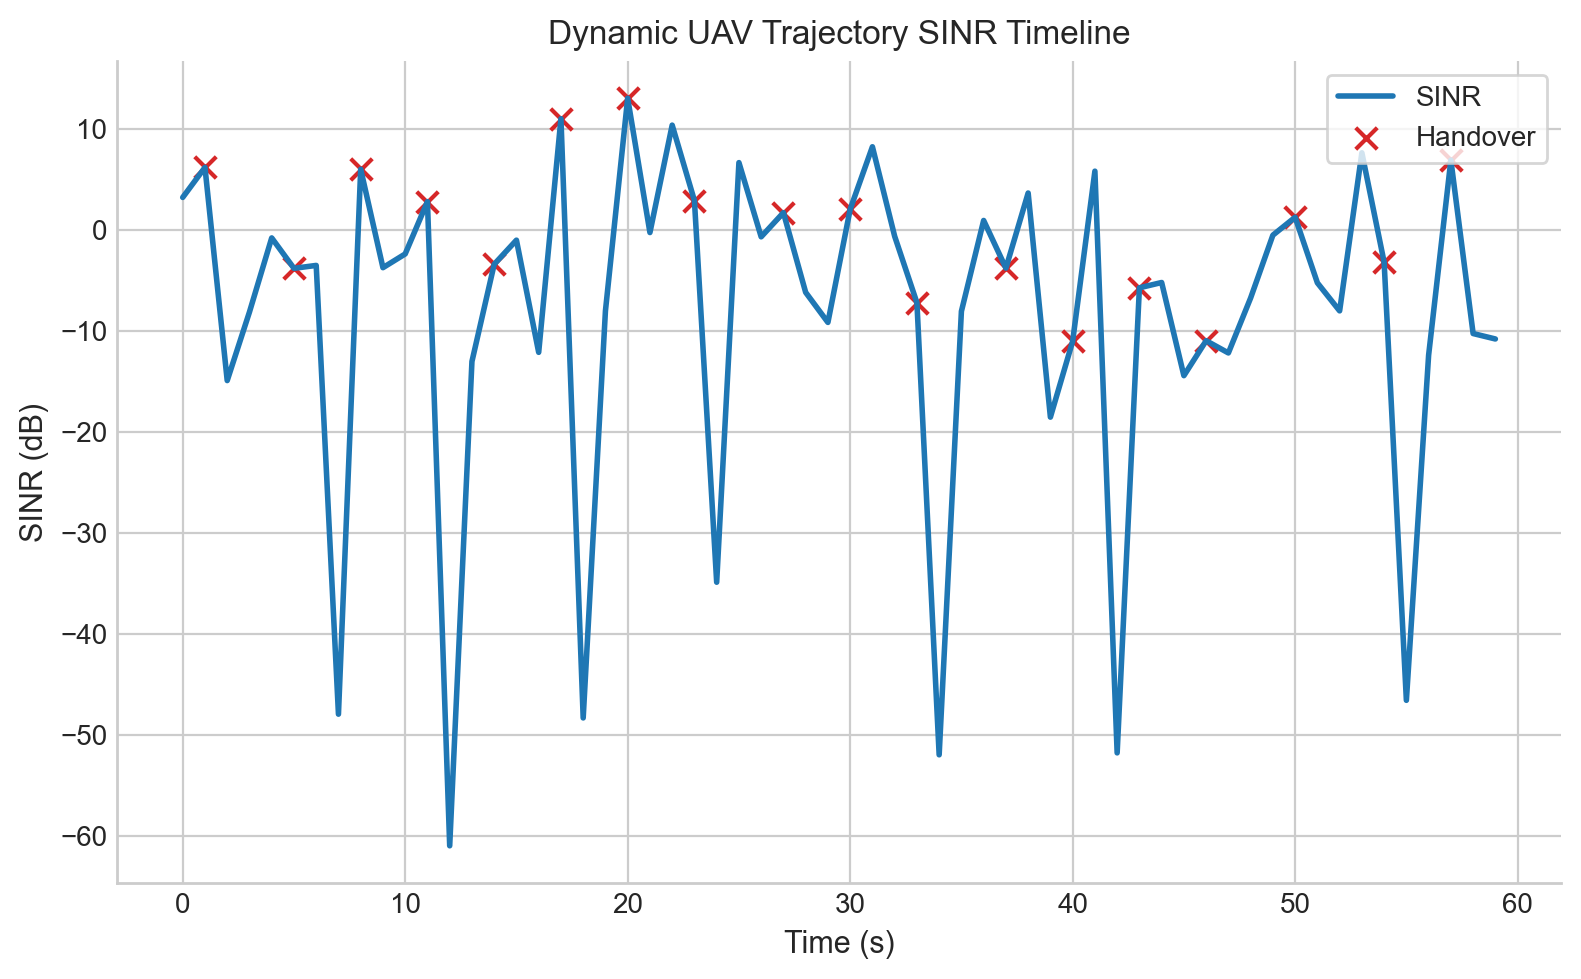
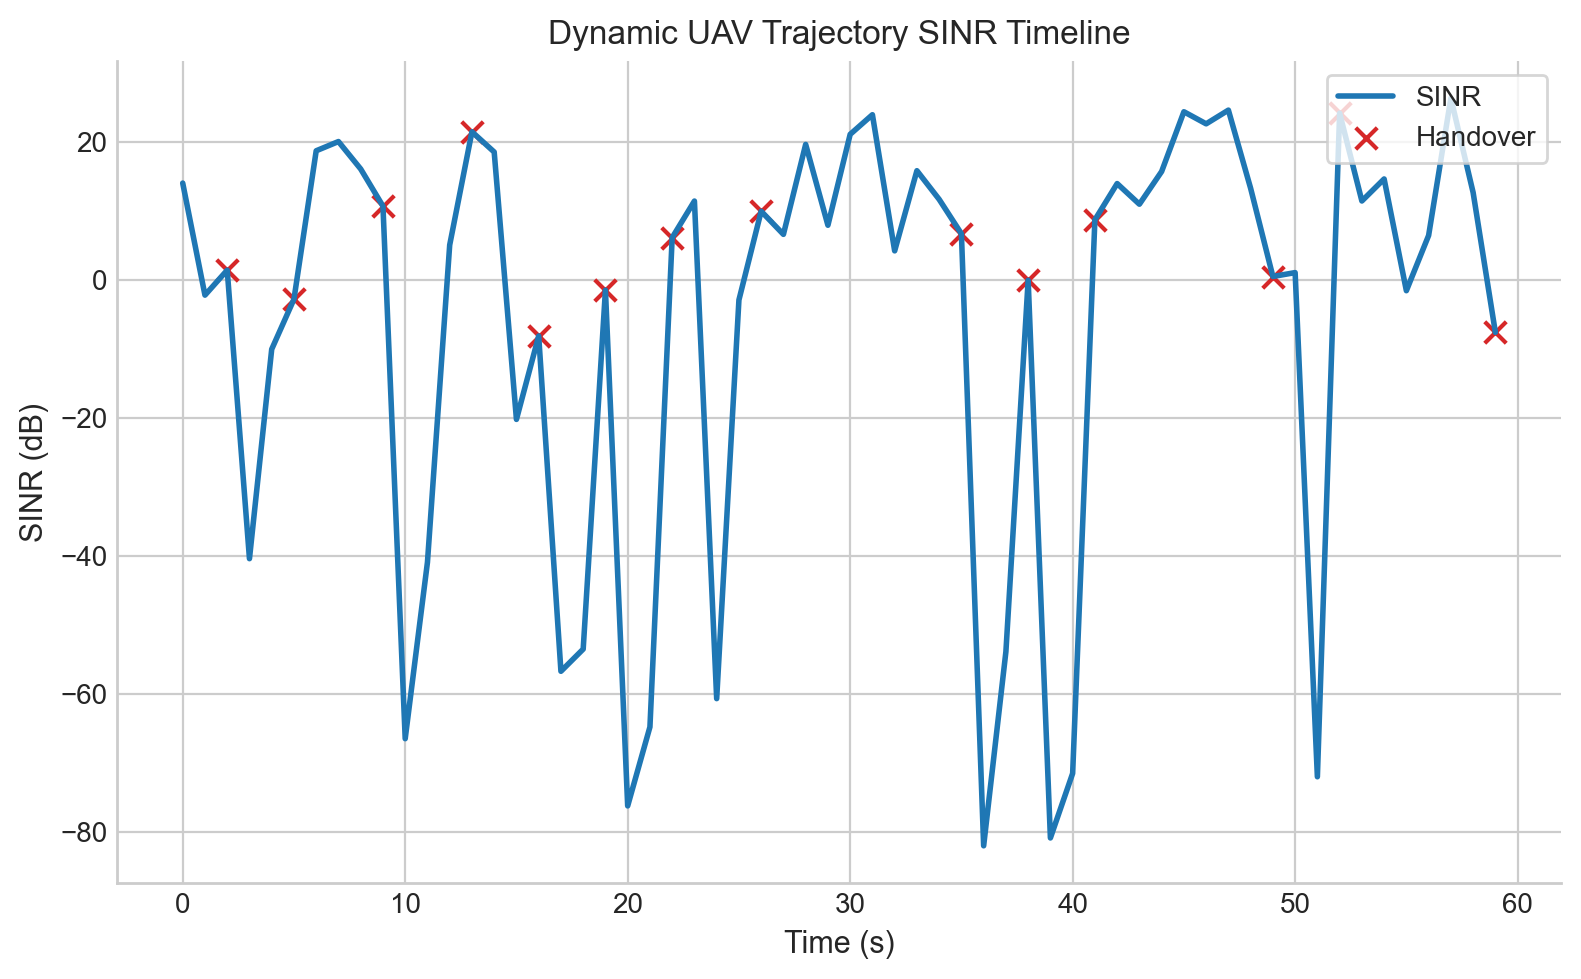
Integrate public real site layout and rerun dynamic experiment

diff --git a/cellular_uav_sir/config.py b/cellular_uav_sir/config.py
@@ -45,7 +45,7 @@ class SimulationConfig:
     itu_gamma_m: float = 15.0
     site_layout_csv: Path | None = None
     dynamic_site_layout_csv: Path = field(
-        default_factory=lambda: Path(__file__).resolve().parent / "data" / "demo_site_layout.csv"
+        default_factory=lambda: Path(__file__).resolve().parent / "data" / "real_site_layout_knoxville_tn.csv"
     )
     ground_interferer_count: int = 18
     aerial_interferer_count: int = 42

diff --git a/cellular_uav_sir/data/real_site_layout_knoxville_tn_source.md b/cellular_uav_sir/data/real_site_layout_knoxville_tn_source.md
@@ -1,0 +1,18 @@
+# Real Site Layout Source
+
+This layout is a processed local cluster extracted from the public ArcGIS Hub dataset:
+
+- Dataset: `Cellular Towers in the United States`
+- Hub dataset id: `15dabb4108254481b591018be2598f3c_0`
+- Public download/API entry:
+  - `https://hub.arcgis.com/api/v3/datasets/15dabb4108254481b591018be2598f3c_0`
+  - `https://hub.arcgis.com/api/v3/datasets/15dabb4108254481b591018be2598f3c_0/downloads/data?format=csv&spatialRefId=4326`
+
+Processing used in this branch:
+
+1. Query public feature records with geometry and location attributes.
+2. Search the full public point set for a dense local cluster.
+3. Select the nearest 21 real sites around a Knoxville, Tennessee center site.
+4. Re-center coordinates to local metric offsets `x_m, y_m` for direct use by the simulator.
+
+The resulting `real_site_layout_knoxville_tn.csv` is intended for dynamic network experiments and data-driven layout integration, not as a canonical nationwide tower dataset.

diff --git a/README.md b/README.md
@@ -60,7 +60,7 @@ The script generates CSV tables and PNG figures under:
 ## Repository contents
 
 - `cellular_uav_sir/`: simulation source code
-- `cellular_uav_sir/data/`: antenna-pattern and site-layout CSV inputs
+- `cellular_uav_sir/data/`: antenna-pattern and site-layout CSV inputs, including a real Knoxville cell-tower cluster derived from a public ArcGIS Hub dataset
 - `cellular_uav_sir/results/`: generated CSV tables and PNG figures
 - `完整中文报告初稿.md`: full Chinese report
 - `答辩讲稿.md`: oral defense script
@@ -76,3 +76,7 @@ The script generates CSV tables and PNG figures under:
 - Real site layouts can be injected via CSV for dynamic experiments
 - ASE is reported as effective ASE after applying activity factor, scheduler efficiency, control overhead, and a coverage threshold
 - Dynamic experiments add UAV trajectory, handover logic, correlated cell load, and load-aware power sharing
+
+## Real layout note
+
+The default dynamic layout now uses `cellular_uav_sir/data/real_site_layout_knoxville_tn.csv`, which was derived from the public ArcGIS Hub dataset `Cellular Towers in the United States`. The processing note is recorded in `cellular_uav_sir/data/real_site_layout_knoxville_tn_source.md`.